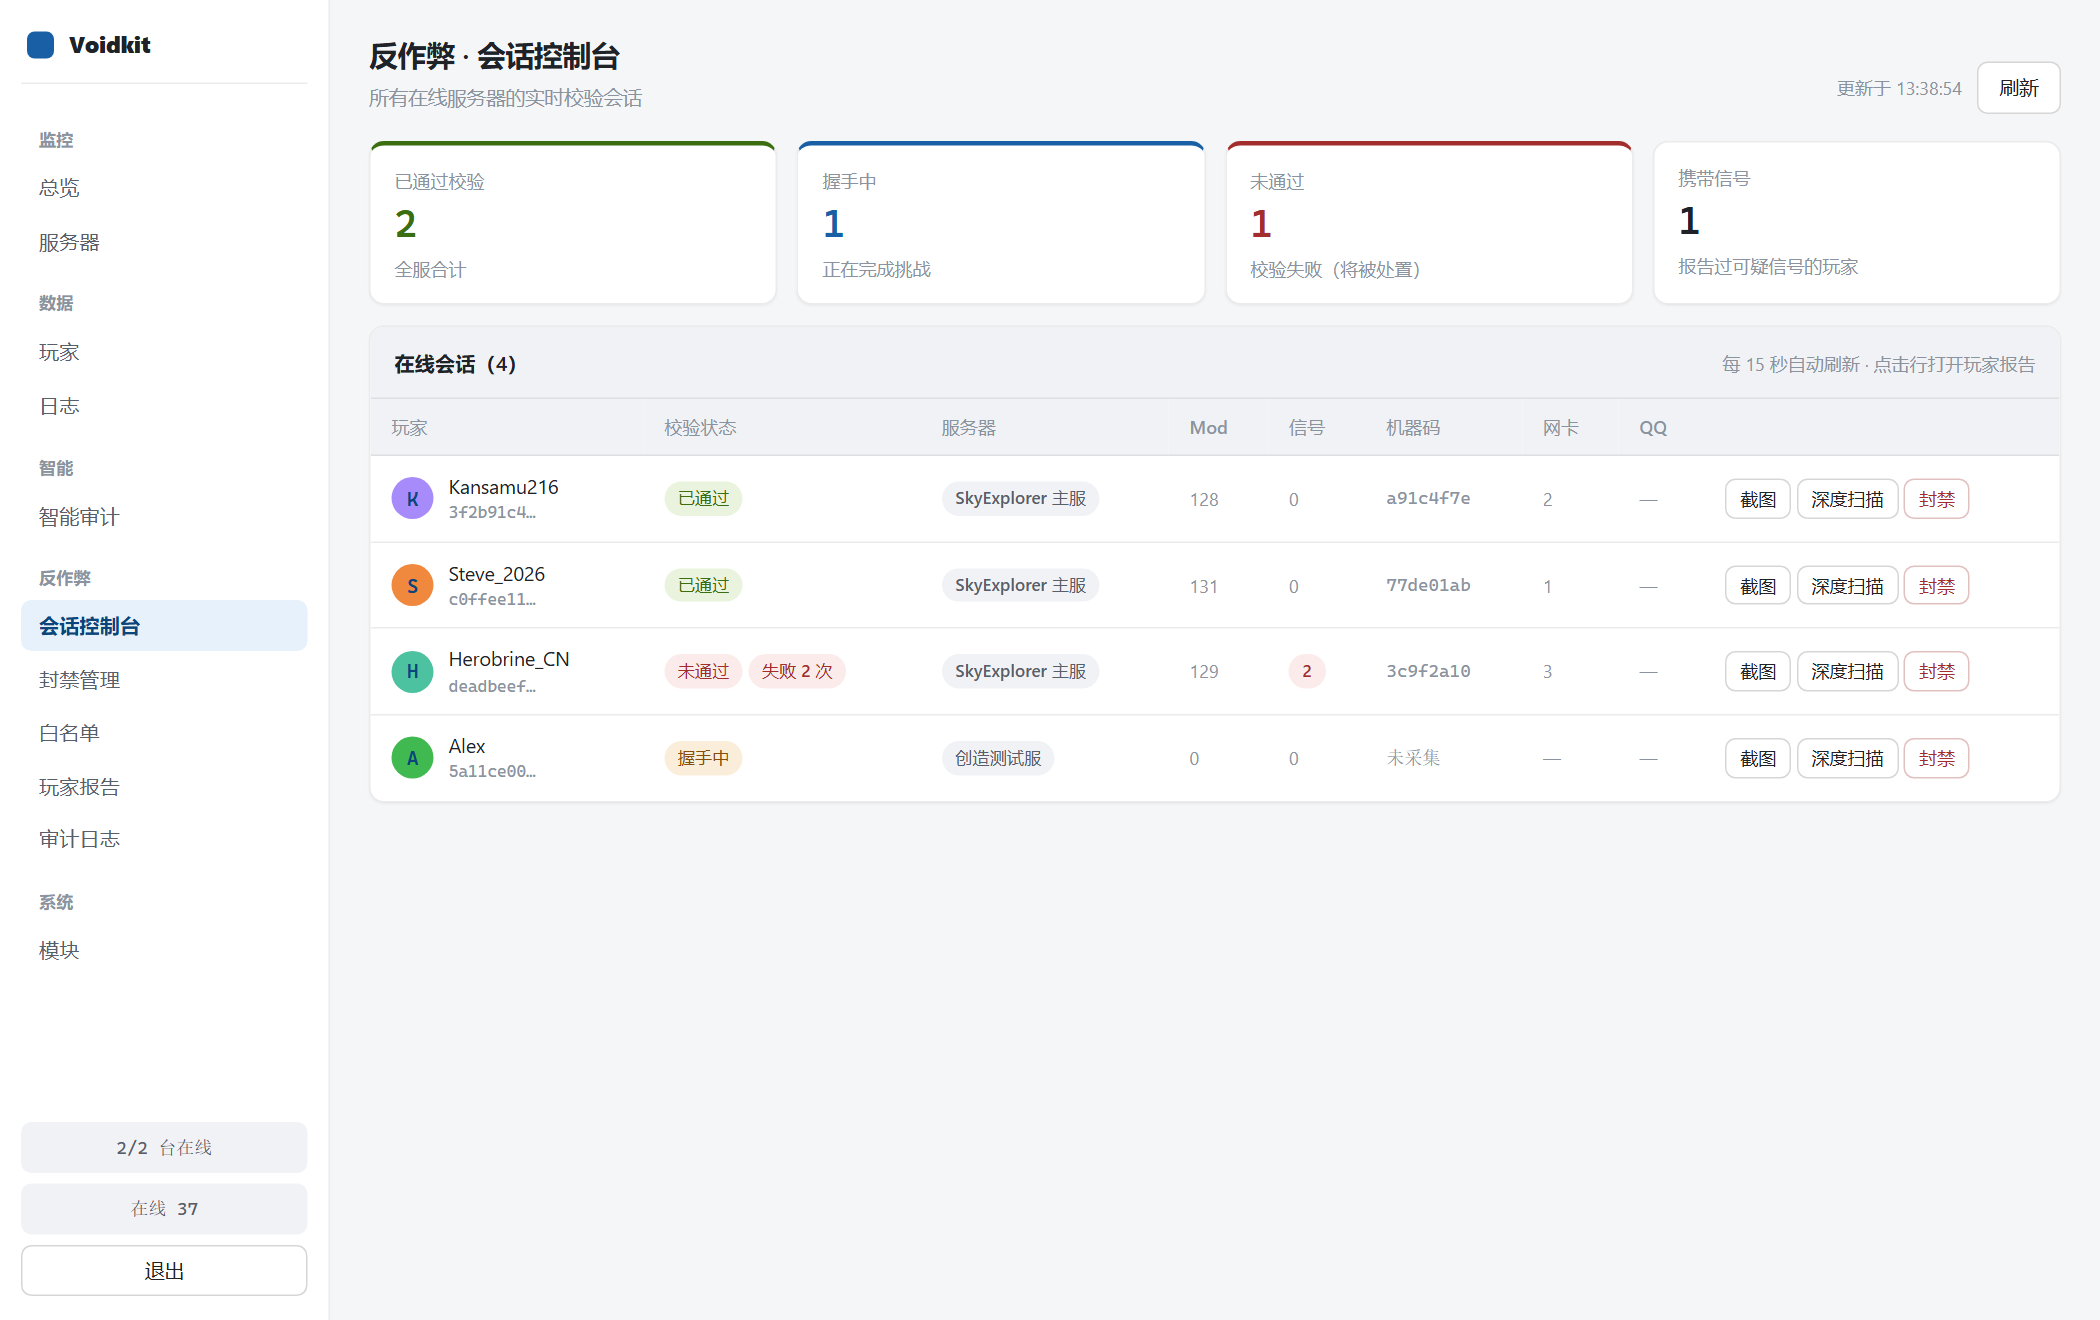
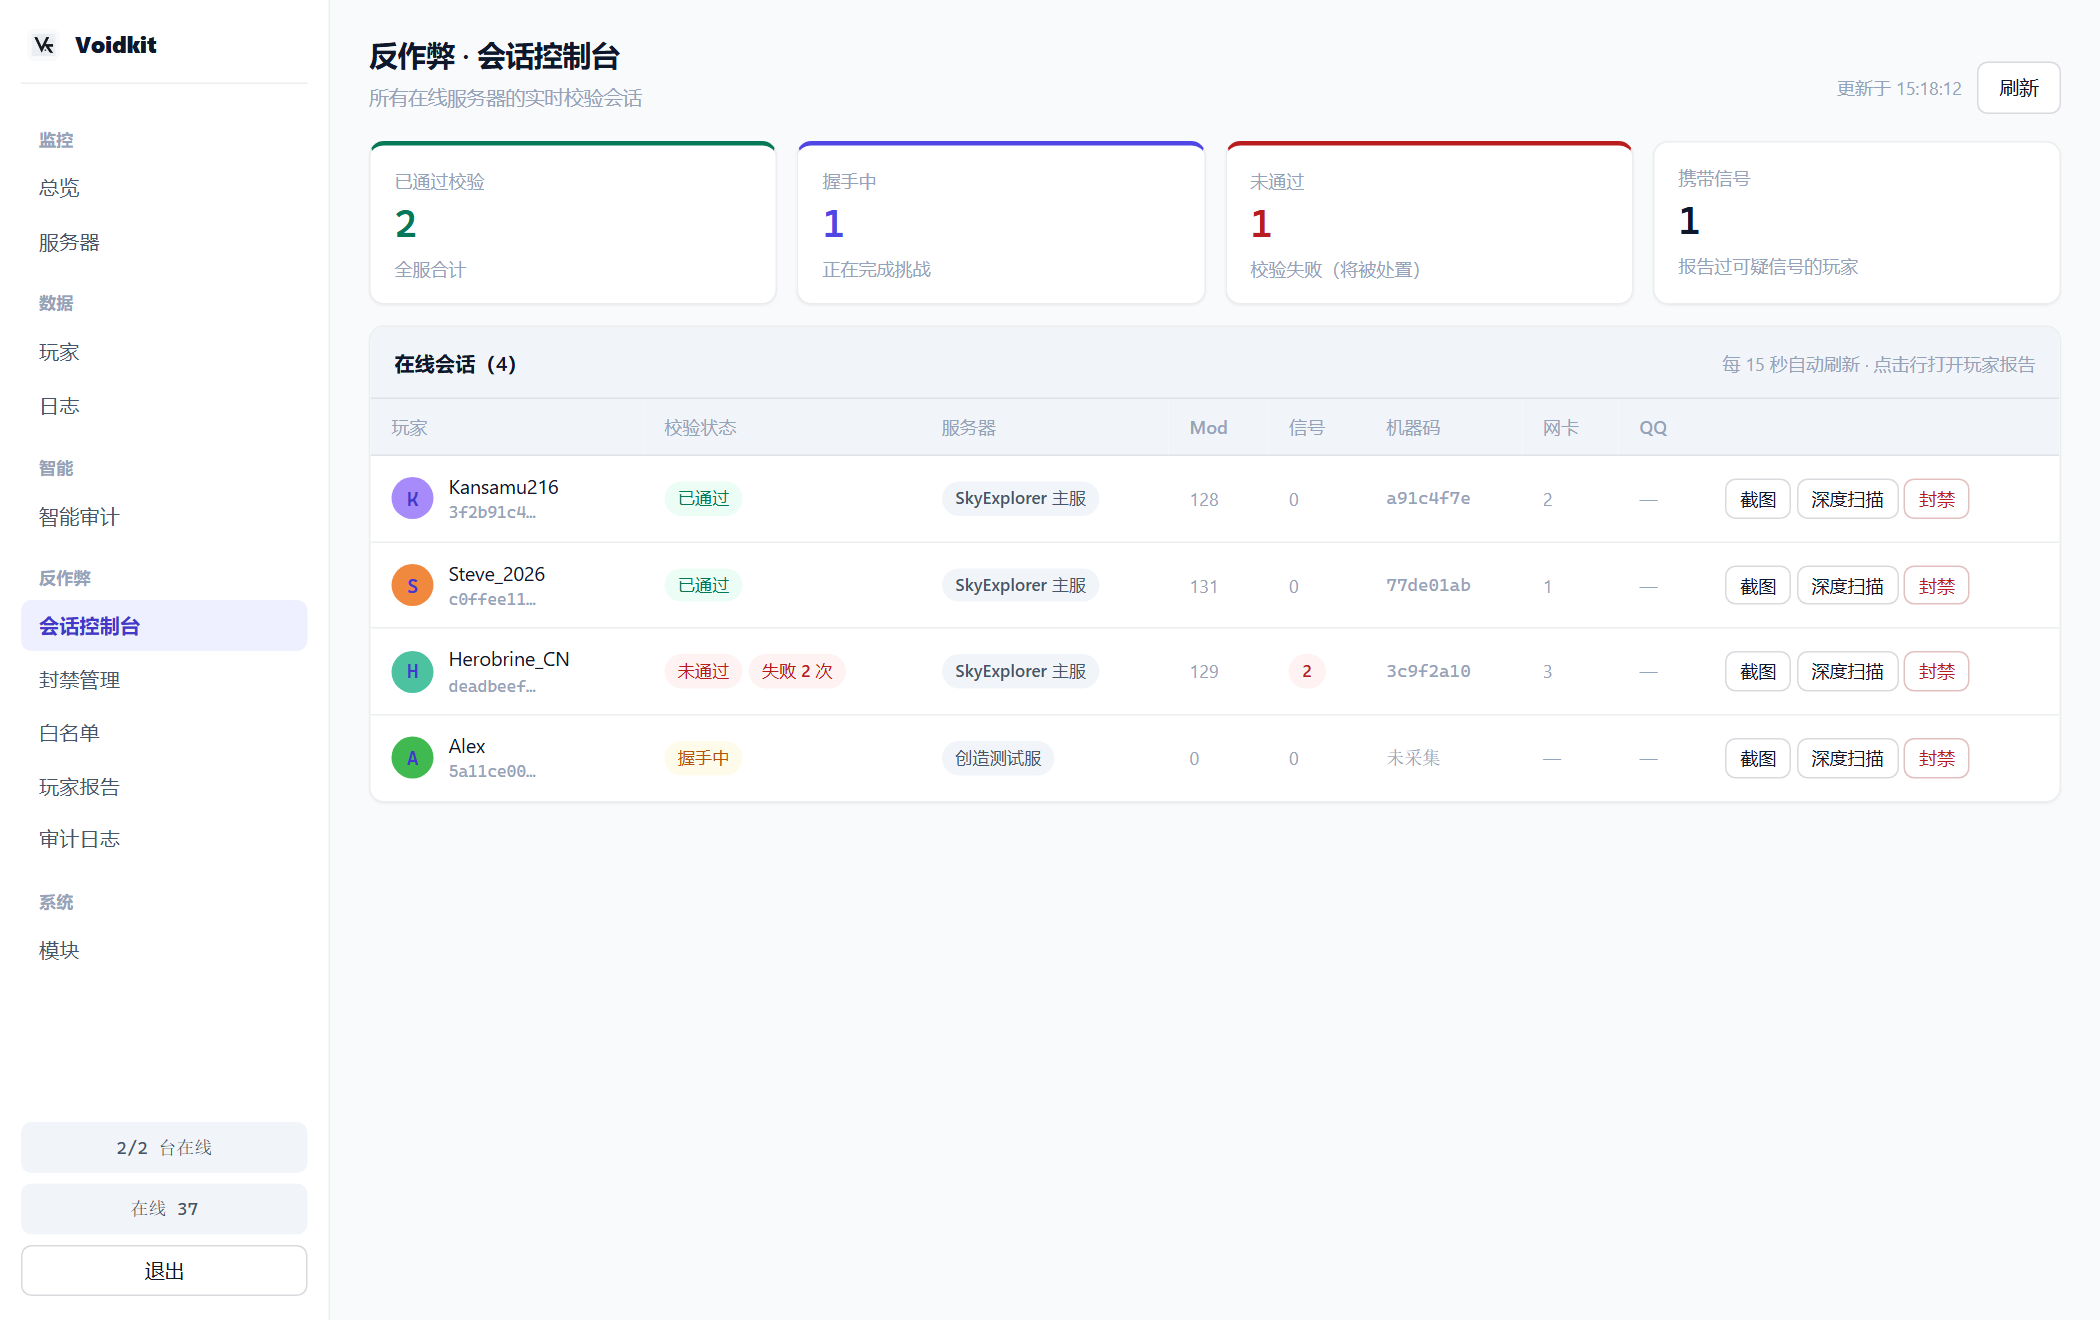
style(hub): 管理台按品牌视觉重做配色 + 换品牌标志
面板原来的强调色是蓝色 #185fa5，与品牌（Indigo 500 #4f46e5）不符。

## 配色
- 强调色：`#185fa5` → **`#4f46e5`**（Indigo 500），hover `#4338ca`，淡填充 `#eef0ff`
- 中性色：全部对齐品牌 Slate 体系
  底 `#f8fafc`(50) / 次级面 `#f1f5f9`(100) / 更强面 `#e2e8f0`(200)
  主文字 `#0f172a`(950) / 次文字 `#475569`(600) / 弱文字 `#94a3b8`(400)
- 边框改用 Slate 950 微透明，比纯黑更贴灰阶
- 判定徽章里两处硬编码的黄（`#fdf6d8`/`#8a6d00`）并入 warn token

> 状态色（正常/警告/错误/离线）保留 —— 运维面板必须能一眼分辨，
> 属功能性语义色，不适用「单一强调色」；但已压低饱和度以贴合浅色工具风。

## 品牌标志
- 登录页与侧栏的占位色块 → 品牌图标 `icon-128.png`
- `index.html` 补 favicon / apple-touch-icon / theme-color(#4f46e5)
- 图标已放进 `hub/web/`（`//go:embed web` 会自动打进二进制）

## 文档配图
用真实前端 + 新配色重新生成 5 张面板截图（总览/智能审计/会话控制台/审计日志/功能模块）。

验证：无头浏览器渲染 5 页无异常；文档站构建通过、0 死链。

diff --git a/hub/web/style.css b/hub/web/style.css
@@ -11,31 +11,34 @@
    ======================================================================= */
 
 :root {
-  /* ---- 底色 ---- */
-  --bg: #f5f6f8;          /* 页面底 */
+  /* ---- 底色：品牌 Slate 体系 ---- */
+  --bg: #f8fafc;          /* Slate 50  —— 品牌指定的浅底 */
   --card: #ffffff;        /* 卡片 / 面板 */
-  --surface: #f0f2f5;     /* 次级面（hover / 表头） */
-  --surface-hi: #e8ebf0;  /* 更强的面 */
+  --surface: #f1f5f9;     /* Slate 100 —— 次级面（hover / 表头） */
+  --surface-hi: #e2e8f0;  /* Slate 200 —— 更强的面 */
 
-  /* ---- 强调色（唯一彩色，靛蓝）---- */
-  --accent: #185fa5;
-  --accent-hi: #0c447c;
-  --accent-soft: #e6f1fb;
+  /* ---- 强调色：品牌唯一强调色 Indigo 500 ----
+     ⚠ 品牌规范「一套物料只允许一个强调色」，改这里之前先确认视觉包 */
+  --accent: #4f46e5;      /* Indigo 500 */
+  --accent-hi: #4338ca;   /* Indigo 700（hover 更深） */
+  --accent-soft: #eef0ff; /* Indigo 50 近似（淡填充） */
 
-  /* ---- 文字 ---- */
-  --ink: #1f2328;
-  --ink-dim: #57606a;
-  --ink-mute: #8b949e;
+  /* ---- 文字：品牌 Slate 950 体系 ---- */
+  --ink: #0f172a;         /* Slate 950 —— 品牌主文字/图形色 */
+  --ink-dim: #475569;     /* Slate 600 */
+  --ink-mute: #94a3b8;    /* Slate 400 */
 
-  /* ---- 状态（淡填充 + 深文字，不整块高饱和）---- */
-  --ok-bg: #eaf3de;   --ok-ink: #3b6d11;
-  --warn-bg: #faeeda; --warn-ink: #854f0b;
-  --err-bg: #fcebeb;  --err-ink: #a32d2d;
-  --off-bg: #eef0f3;  --off-ink: #8b949e;
+  /* ---- 状态色 ----
+     运维面板必须能一眼分辨 正常/警告/错误/离线，属**功能性语义色**，
+     不受「单一强调色」约束；但刻意压低饱和度，保持浅色工具风的克制。 */
+  --ok-bg: #ecfdf5;   --ok-ink: #047857;
+  --warn-bg: #fffbeb; --warn-ink: #b45309;
+  --err-bg: #fef2f2;  --err-ink: #b91c1c;
+  --off-bg: #f1f5f9;  --off-ink: #94a3b8;
 
-  /* ---- 边框 ---- */
-  --border: rgba(0, 0, 0, .08);
-  --border-hi: rgba(0, 0, 0, .16);
+  /* ---- 边框：用 Slate 950 的微透明，比纯黑更贴品牌灰阶 ---- */
+  --border: rgba(15, 23, 42, .08);
+  --border-hi: rgba(15, 23, 42, .16);
 
   --font-ui: -apple-system, BlinkMacSystemFont, "Segoe UI", "Microsoft YaHei",
              "PingFang SC", system-ui, sans-serif;
@@ -73,6 +76,14 @@ body {
 /* ---------------------------------------------------------------- 品牌 */
 
 /* 品牌圆点：靛蓝小方块圆角 */
+/* 品牌标志（品牌视觉包 icons/icon.png —— 圆角方块 + VK 字标）
+   图标本身是**不透明方块**，浅底深底都可用，故不需要暗色版本 */
+.brand-mark {
+  width: 22px; height: 22px;
+  display: block; flex: 0 0 auto;
+  border-radius: 6px;
+}
+
 .dot {
   width: 18px; height: 18px;
   display: inline-block;
@@ -467,7 +478,7 @@ tr.click:hover { background: var(--accent-soft); }
 
 /* 判定结论徽章：四级配色，沿用「淡填充 + 深文字」 */
 .badge.lv-clean   { background: var(--ok-bg);   color: var(--ok-ink); }
-.badge.lv-susp    { background: #fdf6d8;        color: #8a6d00; }
+.badge.lv-susp    { background: var(--warn-bg); color: var(--warn-ink); }
 .badge.lv-likely  { background: var(--warn-bg); color: var(--warn-ink); }
 .badge.lv-conf    { background: var(--err-bg);  color: var(--err-ink); }
 .badge.lg { padding: 6px 16px; font: 600 14px/1.6 var(--font-ui); }

diff --git a/hub/web/index.html b/hub/web/index.html
@@ -5,6 +5,10 @@
   <meta charset="utf-8">
   <meta name="viewport" content="width=device-width, initial-scale=1">
   <title>VoidkitHub 管理平台</title>
+  <!-- 品牌视觉包提供的图标（icons/icon.png）。整个 web/ 目录由 go:embed 打进二进制 -->
+  <link rel="icon" type="image/png" href="icon.png">
+  <link rel="apple-touch-icon" href="icon.png">
+  <meta name="theme-color" content="#4f46e5">
   <link rel="stylesheet" href="style.css">
 </head>
 
@@ -12,7 +16,7 @@
   <!-- 登录 -->
   <div id="login" class="login">
     <form class="login-card" id="login-form" autocomplete="off">
-      <h1><span class="dot"></span>VoidkitHub</h1>
+      <h1><img class="brand-mark" src="icon-128.png" alt="" width="22" height="22">VoidkitHub</h1>
       <p class="sub">MULTI-SERVER CONTROL</p>
 
       <label class="field">
@@ -40,7 +44,7 @@
   <!-- 主界面 -->
   <div id="app" class="hidden">
     <aside class="side">
-      <div class="brand"><span class="dot"></span><strong>Voidkit</strong></div>
+      <div class="brand"><img class="brand-mark" src="icon-128.png" alt="" width="22" height="22"><strong>Voidkit</strong></div>
       <nav id="nav">
         <span class="nav-group">监控</span>
         <button data-view="fleet" class="on">总览</button>
